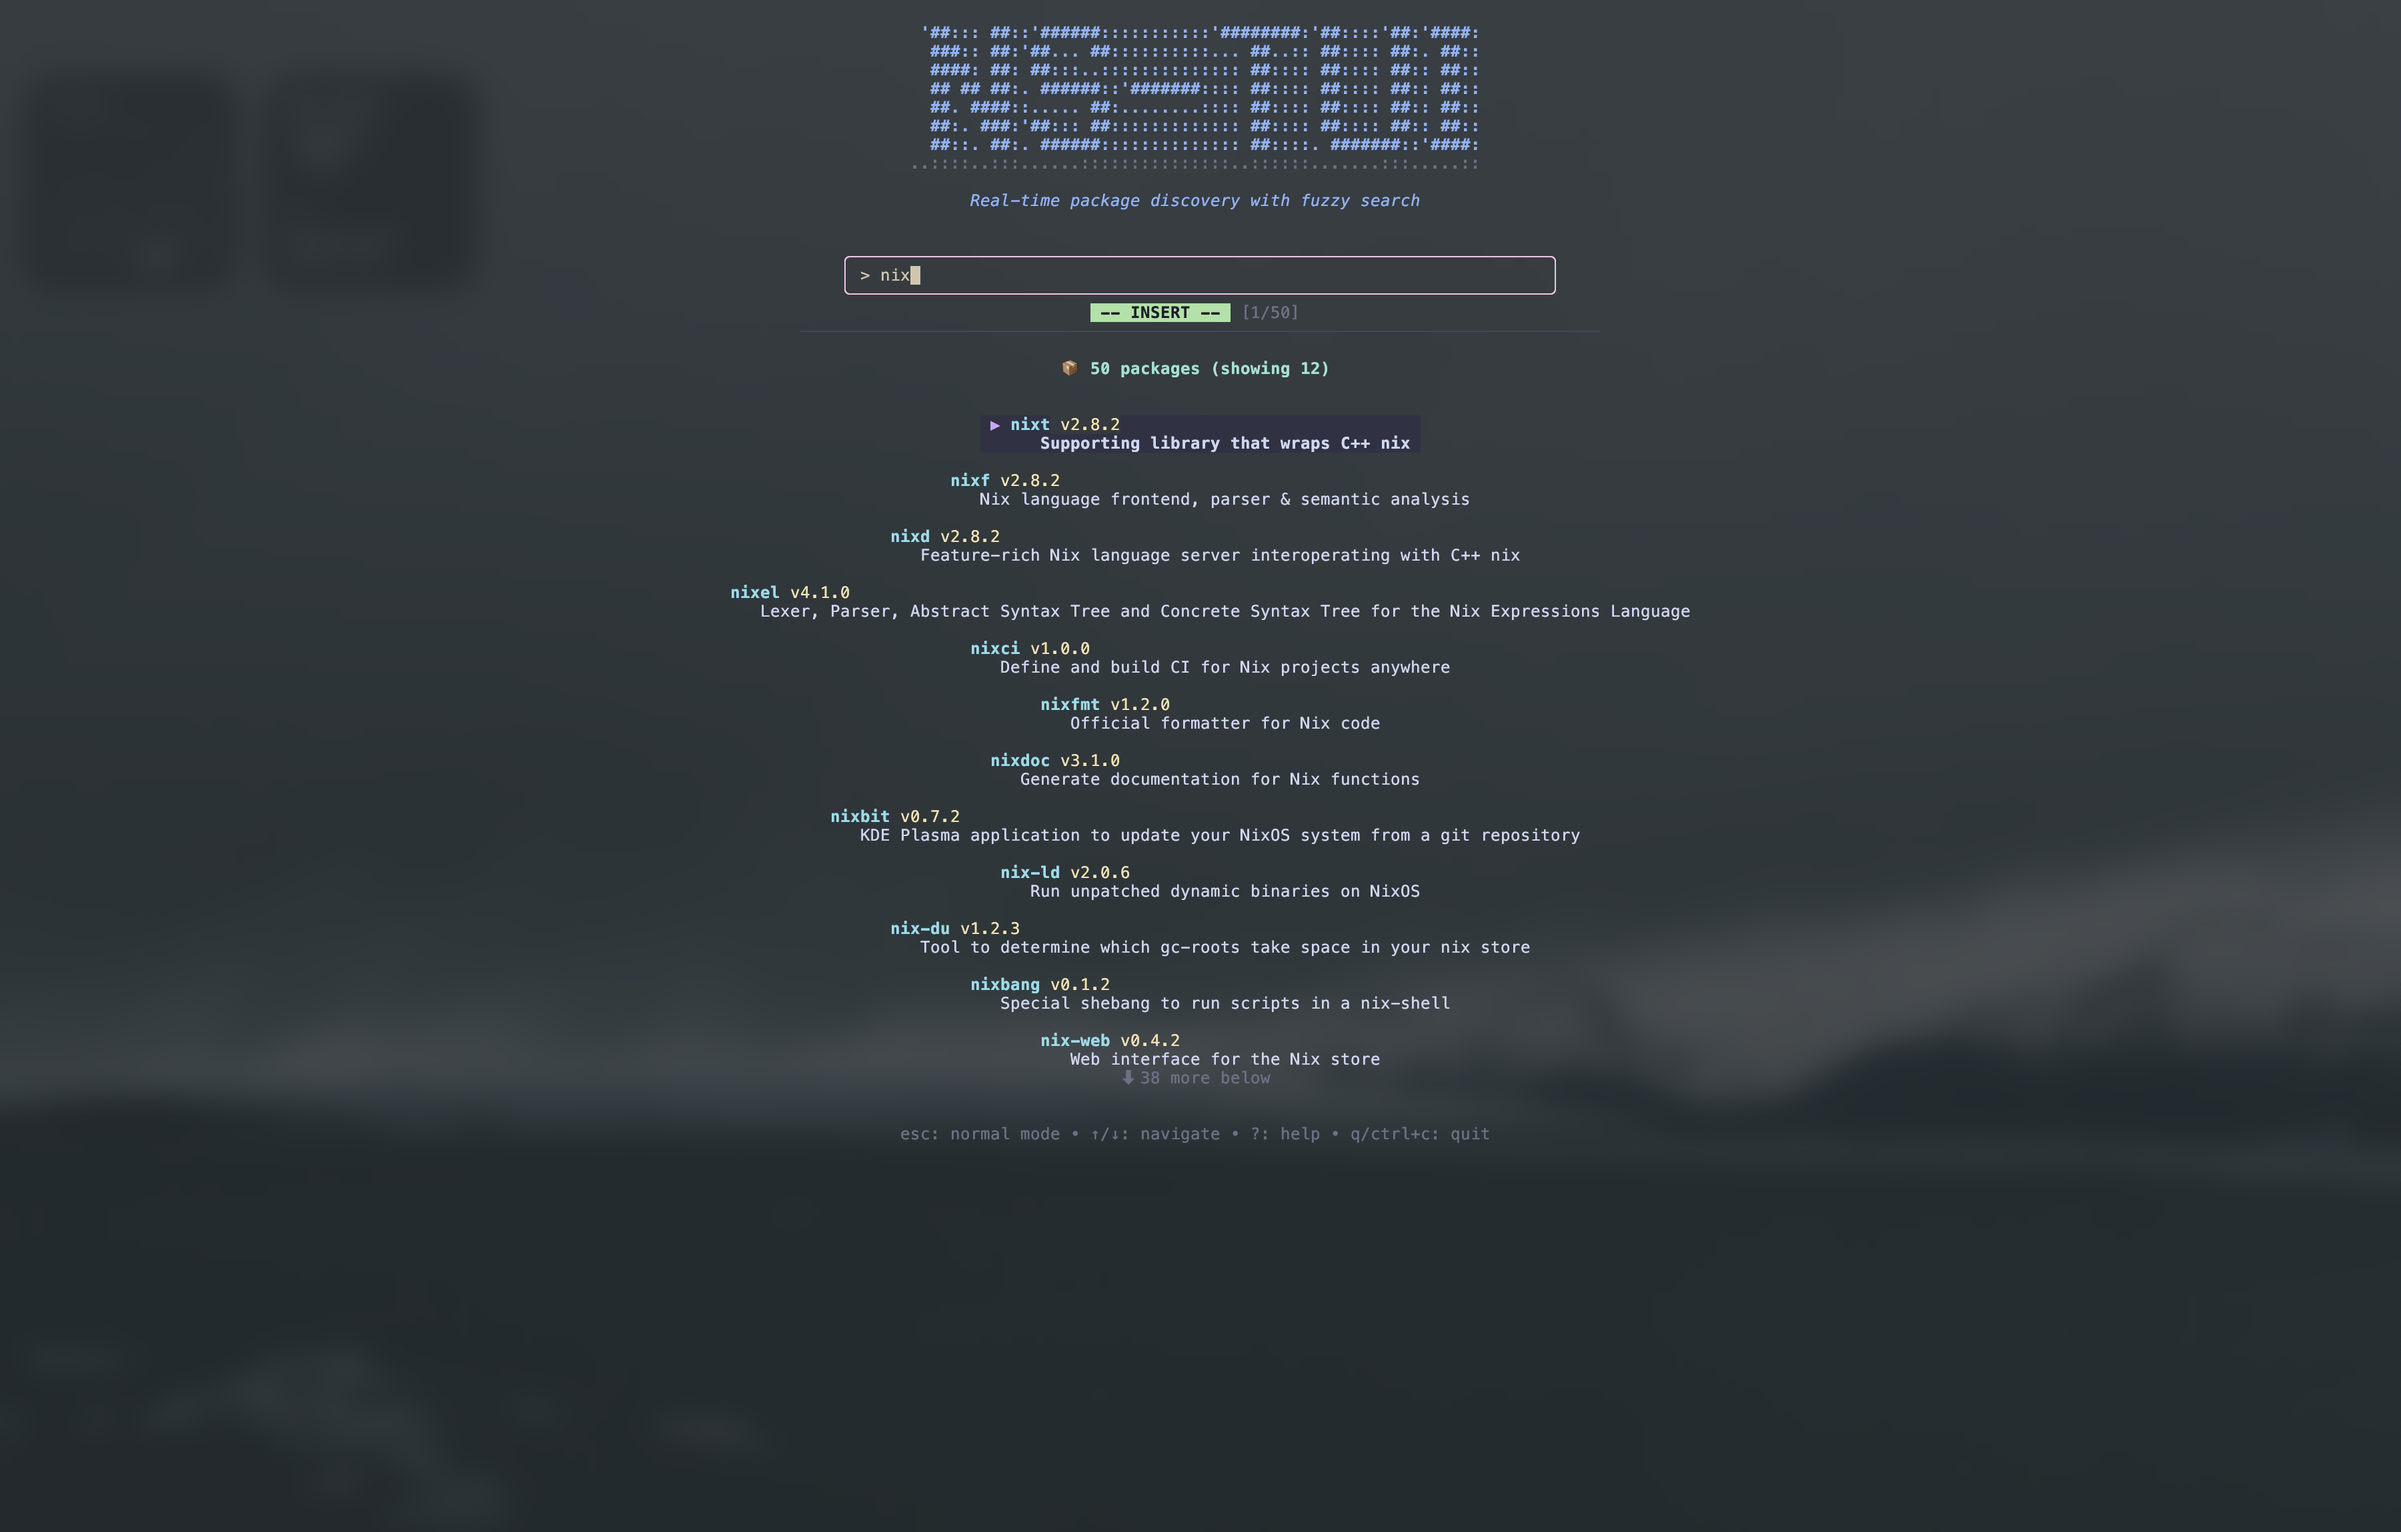
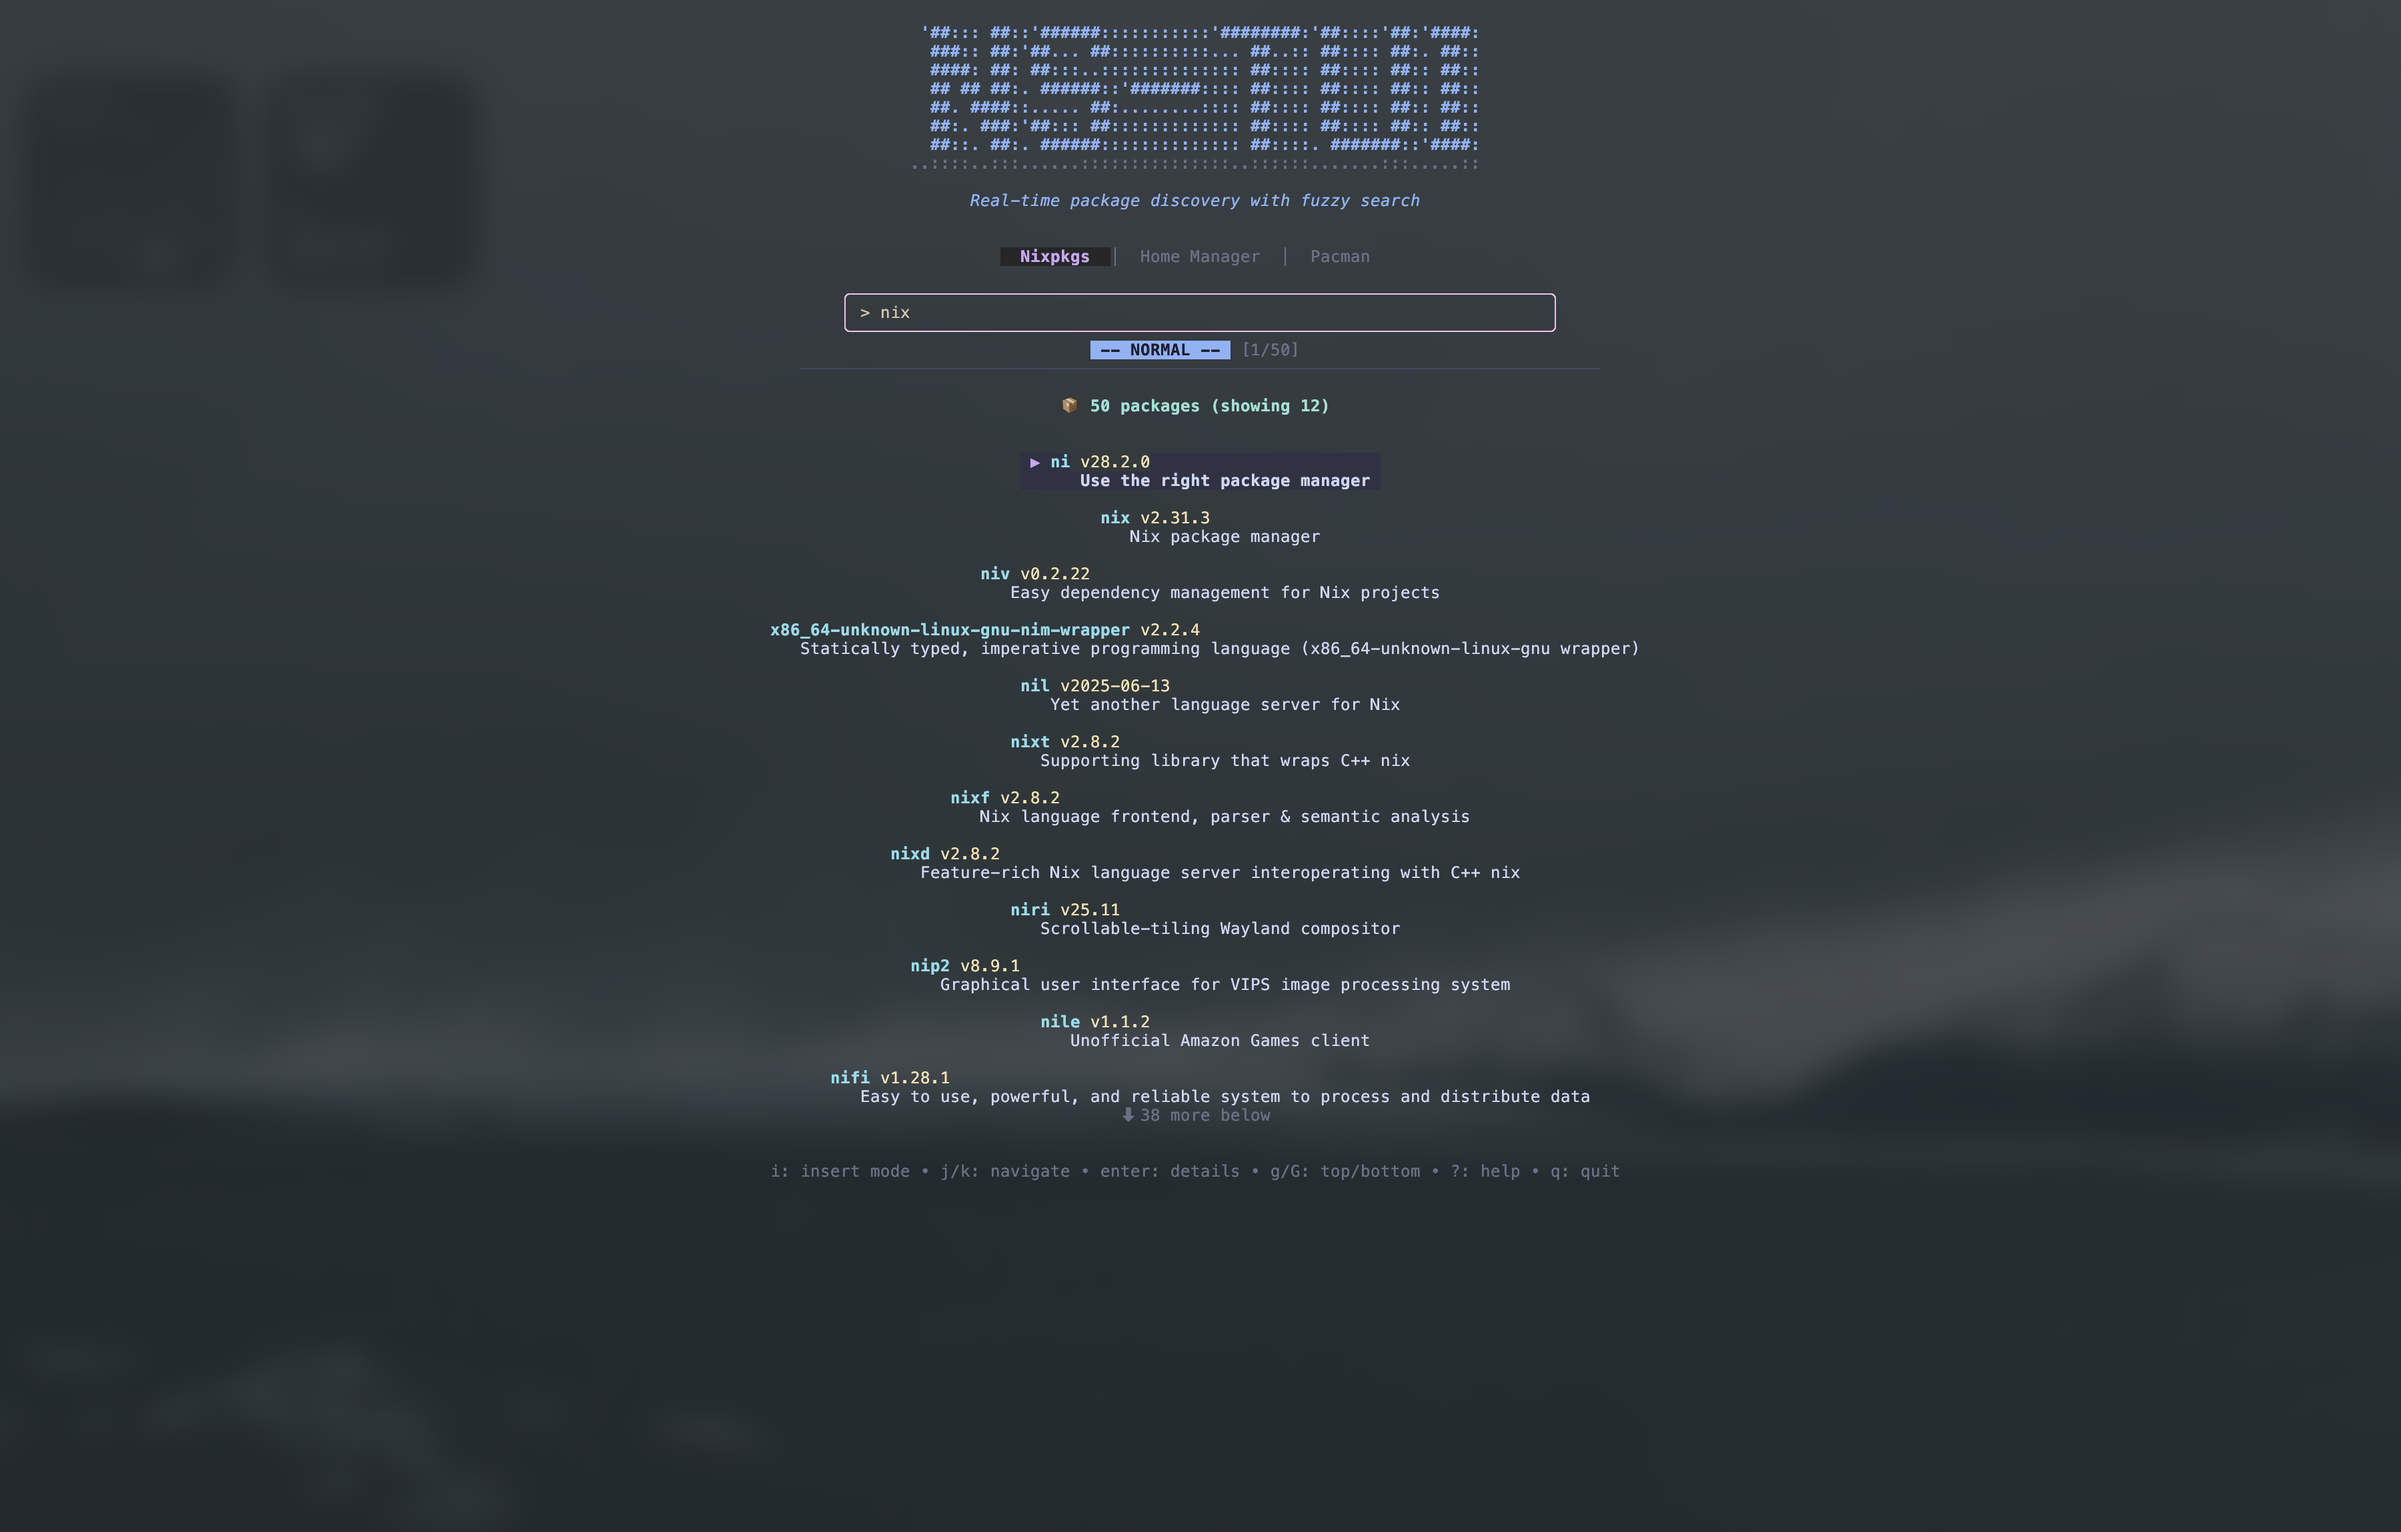
fix: fuzzy search, ui sc

Changed region(s): [[0.3111, 0.1545, 0.6222, 0.7724], [0.6222, 0.4017, 0.6844, 0.4326]]

diff --git a/internal/api/client.go b/internal/api/client.go
@@ -77,6 +77,34 @@ func (c *Client) SearchPackages(query string) ([]models.Package, error) {
 						},
 					},
 				},
+				"should": []any{
+					// Boost exact matches significantly
+					map[string]any{
+						"term": map[string]any{
+							"package_attr_name": map[string]any{
+								"value": query,
+								"boost": 100,
+							},
+						},
+					},
+					map[string]any{
+						"term": map[string]any{
+							"package_pname": map[string]any{
+								"value": query,
+								"boost": 80,
+							},
+						},
+					},
+					// Boost prefix matches
+					map[string]any{
+						"prefix": map[string]any{
+							"package_attr_name": map[string]any{
+								"value": query,
+								"boost": 50,
+							},
+						},
+					},
+				},
 				"filter": []any{
 					map[string]any{
 						"term": map[string]any{
